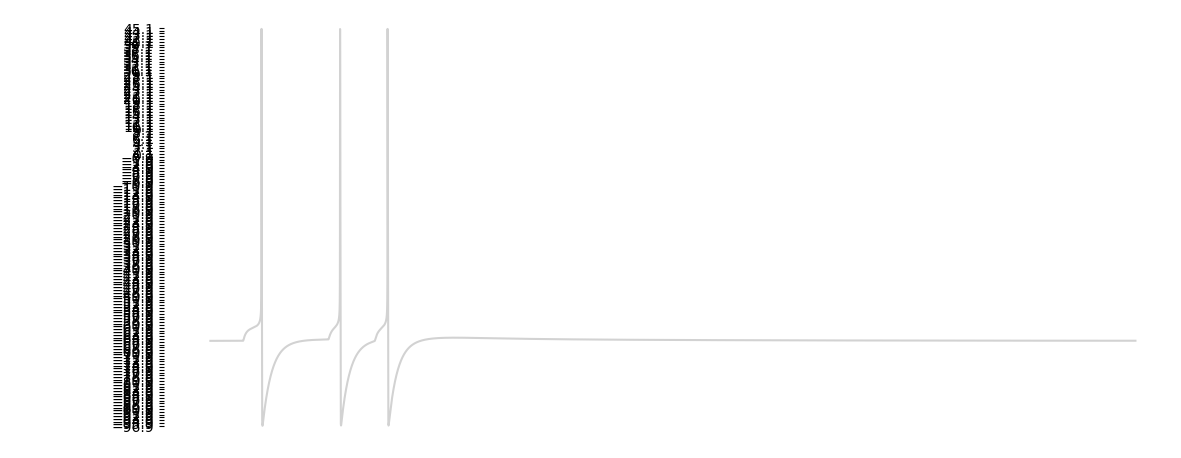
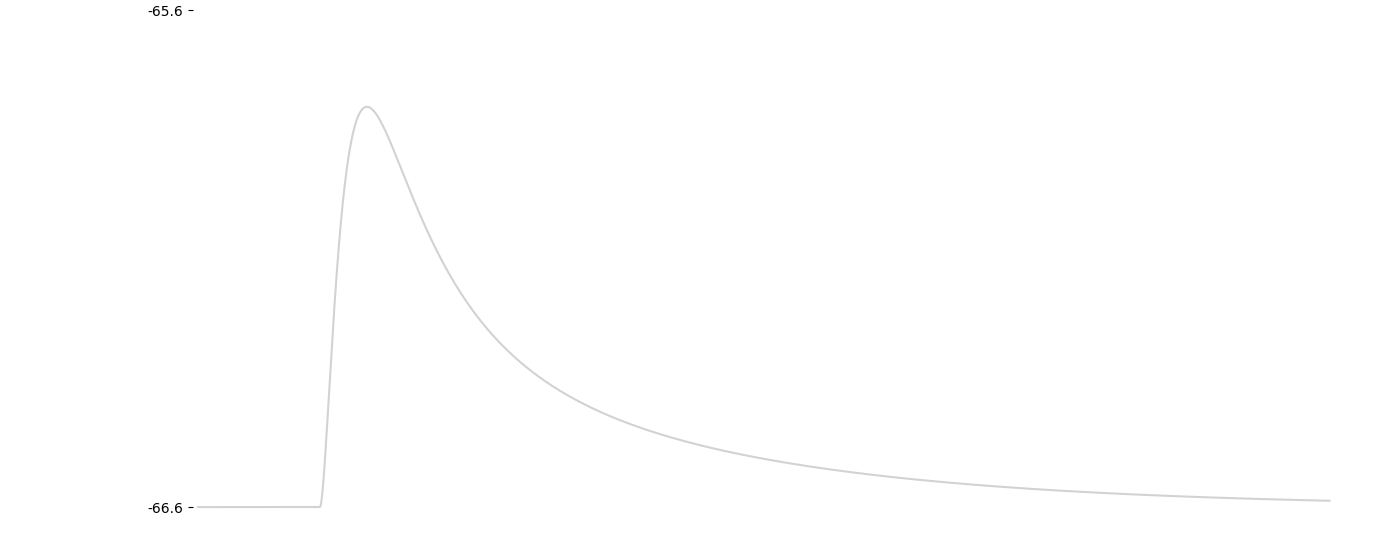
trying to get the plotting to match the screen

diff --git a/run.py b/run.py
@@ -67,7 +67,7 @@ gabaa2 = pyglet.gui.ToggleButton(1799, 165, pyglet.resource.image('png/choose_re
 gabaa3 = pyglet.gui.ToggleButton(1799, 245, pyglet.resource.image('png/choose_receptor/a_pressed.png'), pyglet.resource.image('png/choose_receptor/a_unpressed.png'), batch=batch, group=foreground)
 
 slider_1 = classes.MySlider(1474, 997, base=pyglet.resource.image('png/sliders/slider.png'), knob=pyglet.resource.image('png/sliders/knob.png'), edge=5, batch=batch)
-slider_2 = classes.MySlider(1474, 867, base=pyglet.resource.image('png/sliders/slider.png'), knob=pyglet.resource.image('png/sliders/knob.png'), edge=5, batch=batch)
+slider_2 = classes.MySlider(1474, 876, base=pyglet.resource.image('png/sliders/slider.png'), knob=pyglet.resource.image('png/sliders/knob.png'), edge=5, batch=batch)
 slider_3 = classes.MySlider(1474, 755, base=pyglet.resource.image('png/sliders/slider.png'), knob=pyglet.resource.image('png/sliders/knob.png'), edge=5, batch=batch)
 slider_4 = classes.MySlider(1474, 634, base=pyglet.resource.image('png/sliders/slider.png'), knob=pyglet.resource.image('png/sliders/knob.png'), edge=5, batch=batch)
 
@@ -240,28 +240,28 @@ def drawing_plot(dt, picture):
 def on_change(val):
     spike_time = int(round(val*runtime_constant, 0))
     add_spike_time(calculator.n[0], calculator.t_list, spike_time)
-    window.spike_times[0]= (pyglet.text.Label(f'{str(spike_time)}', font_size=20, color=(105, 105, 105, 255), x=1005, y=986, batch=spike_time_batch))
+    window.spike_times[0]= (pyglet.text.Label(f'{str(spike_time)}', font_size=17, font_name = 'calibri', color=(20, 20, 20, 255), x=1480, y=978, batch=spike_time_batch))
     sldisp.dispatch_event('slider_activate', plus_button, batch)
 
 @slider_2.event
 def on_change(val):
     spike_time = int(round(val*runtime_constant, 0))
     add_spike_time(calculator.n[1], calculator.t_1_list, spike_time)
-    window.spike_times[1]= (pyglet.text.Label(f'{str(spike_time)}', font_size=20, color=(105, 105, 105, 255), x=1005, y=888, batch=spike_time_batch))
+    window.spike_times[1]= (pyglet.text.Label(f'{str(spike_time)}', font_size=17, font_name = 'calibri', color=(20, 20, 20, 255), x=1480, y=857, batch=spike_time_batch))
     sldisp.dispatch_event('slider_activate', plus_button_1, batch)
     
 @slider_3.event
 def on_change(val):
     spike_time = int(round(val*runtime_constant, 0))
     add_spike_time(calculator.n[2], calculator.t_2_list, spike_time)
-    window.spike_times[2]= (pyglet.text.Label(f'{str(spike_time)}', font_size=20, color=(105, 105, 105, 255), x=1005, y=792, batch=spike_time_batch))
+    window.spike_times[2]= (pyglet.text.Label(f'{str(spike_time)}', font_size=17, font_name = 'calibri', color=(20, 20, 20, 255), x=1480, y=736, batch=spike_time_batch))
     sldisp.dispatch_event('slider_activate', plus_button_2, batch)
   
 @slider_4.event
 def on_change(val):
     spike_time = int(round(val*runtime_constant, 0))
     add_spike_time(calculator.n[3], calculator.t_3_list, spike_time)
-    window.spike_times[3]= (pyglet.text.Label(f'{str(spike_time)}', font_size=20, color=(32,32,32,255), x=1005, y=699, batch=spike_time_batch))
+    window.spike_times[3]= (pyglet.text.Label(f'{str(spike_time)}', font_size=17, font_name = 'calibri', color=(20, 20, 20, 255), x=1480, y=615, batch=spike_time_batch))
     sldisp.dispatch_event('slider_activate', plus_button_3, batch)
 
 @plus_button.event

diff --git a/exect_hh.py b/exect_hh.py
@@ -3,6 +3,7 @@ import utils
 import matplotlib.pyplot as plt
 import classes
 import matplotlib.transforms as trn
+from matplotlib.ticker import FormatStrFormatter
 
 def calculate(timing, strength, caching):
     print(timing)
@@ -298,24 +299,31 @@ def calculate(timing, strength, caching):
             '''
             if does_cache:
                 holder_list.append(y)
-                fig, ax = plt.subplots(figsize=(13.13, 5.67)) 
+                fig, ax = plt.subplots(figsize=(15.4, 6.72)) 
                 for plots in holder_list[:len(holder_list)-1]:
                     ax.plot(x, plots, '#d2d2d2', alpha = 0)
                 ax.plot(x, holder_list[-1],'#d2d2d2') 
-                fig_c, ax_c = plt.subplots(figsize=(13.1, 5.67)) 
+                ax.yaxis.set_major_formatter(FormatStrFormatter('%.1f'))
+                ax.set_xlim(xmin=-5.0)
+                fig_c, ax_c = plt.subplots(figsize=(15.4, 6.72)) 
                 for plots in holder_list[:len(holder_list)-1]:
                     ax_c.plot(x, plots, '#404040')
                 ax_c.plot(x, holder_list[-1],'#d2d2d2', alpha=0)
+                ax_c.set_xlim(xmin=-5.0)
+                ax_c.yaxis.set_major_formatter(FormatStrFormatter('%.1f'))
                 print('success cache')
                 return fig, ax, fig_c, ax_c, [min(y)/volt, max(y)/volt]
             else: 
                 holder_list = []
                 holder_list.append(y)
-                fig, ax = plt.subplots(figsize=(13.13, 5.67)) 
+                fig, ax = plt.subplots(figsize=(15.4, 6.72)) 
+                # 13.13, 5.67
                 ax.plot(x, y, '#d2d2d2')
-                fig_c, ax_c = plt.subplots(figsize=(13.1, 5.67)) 
+                ax.set_xlim(xmin=-5.0)
+                fig_c, ax_c = plt.subplots(figsize=(15.4, 6.72)) 
                 #это ось
                 ax_c.plot(x, y, '#404040', alpha = 0)
+                ax.yaxis.set_major_formatter(FormatStrFormatter('%.1f'))
                 print('success no cache')
                 return fig, ax, fig_c, ax_c, [min(y)/volt, max(y)/volt]
             
